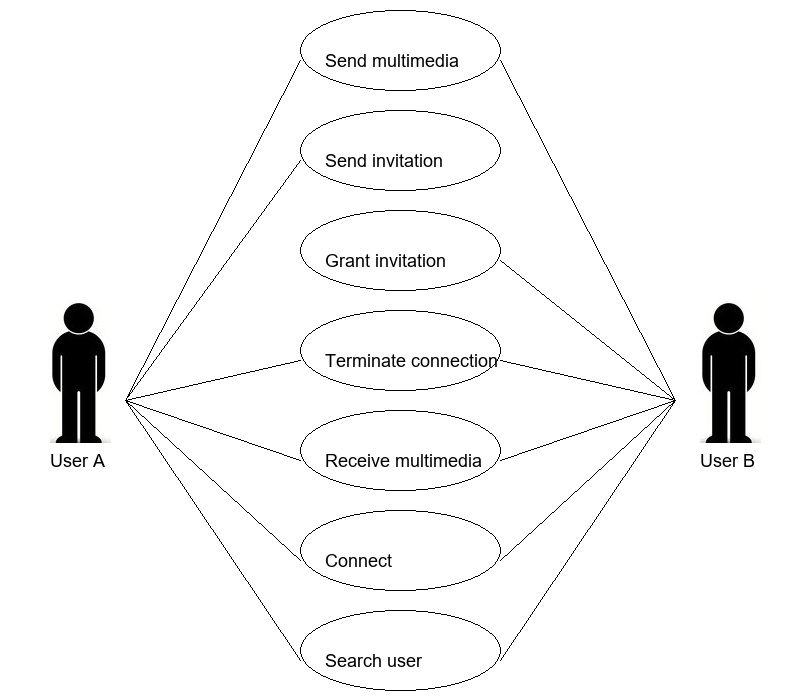
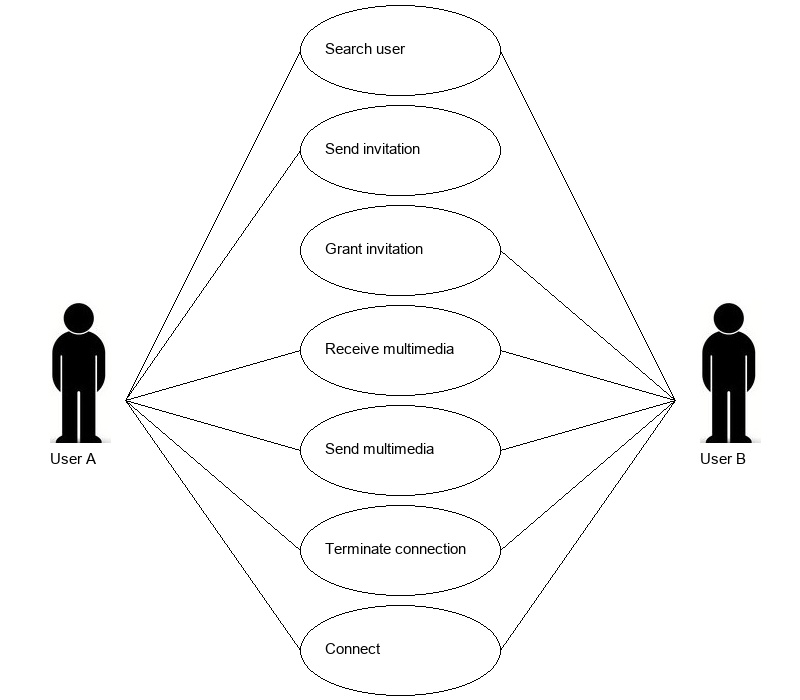
changes in UseCase

diff --git a/templates/index.html b/templates/index.html
@@ -117,7 +117,7 @@
             {% if show[5] == 1 %}
             <div class="block" id="diagram" >
                 <label class="main">UML Diagram</label><br><br>     
-                <img src="{{url_for('static', filename='pillow_imagedraw.jpg')}}" style="width:100%; height:700px;" > 
+                <img src="{{url_for('static', filename='pillow_imagedraw.jpg')}}" style="width:100%; height:900px;" > 
             </div>
             {% endif %}
             <br>
@@ -125,6 +125,6 @@
         </div>
     </div>
 </form>
-    
+  
 </body>
 </html>

diff --git a/UseCase.py b/UseCase.py
@@ -109,15 +109,17 @@ def knowledgeExtract(doc):
                 elif pos_text[c].pos_ == 'VERB':
                     break
                 c += 1
-            
             for i in actors:
                 if i.title() not in use_case:
-                    use_case[i.title()] = []
-                    
+                    use_case[i.title()] = set()
             if not actors and not flag:
                 actors = prev_actors
-                
-            if pos_text[c].pos_ != 'VERB' or (pos_text[c].pos_ == 'VERB' and pos_text[c].lemma_.lower() in ['include', 'involve', 'consist', 'contain']):
+            if flag:
+                prev_actors = actors
+            else:
+                prev_actors = prev_actors.union(actors)
+            flag = False
+            if c >= len(pos_text) or pos_text[c].lemma_.lower() in ['include', 'involve', 'consist', 'contain', 'be']:
                 c += 1
                 continue
             v = pos_text[c]
@@ -129,23 +131,19 @@ def knowledgeExtract(doc):
                 if pos_text[c].dep_ == 'dobj':
                     u += " " + pos_text[c].lemma_
                 c += 1
-            
             for i in actors:
-                use_case[i.title()].append(u)
-            
-            if flag:
-                prev_actors = actors
-            else:
-                prev_actors = prev_actors.union(actors)
-                
-            flag = False
-    
+                use_case[i.title()].add(u)
+    x = list(use_case.keys())
+    for i in x:
+        if not use_case[i]:
+            del use_case[i]
     return use_case
                 
 
 def createUML(doc):
+
     use_case = knowledgeExtract(doc)
-    fontsize = 18
+    fontsize = 15
     font = ImageFont.truetype("arial.ttf", fontsize)
     n = len(use_case.keys())
     cases = set()
@@ -167,17 +165,18 @@ def createUML(doc):
         draw.text((700-(50*(i%2)), div2*i+div2//2+100),actors[n-half+i],(0,0,0),font=font)
     x = 700//len(cases)
     for i in range(len(cases)): 
-        draw.ellipse((300, x*i+10, 500, x*(i+1)-10),fill=None, outline=(0, 0, 0))
-        draw.text((325, x*i+50),cases[i].capitalize(),(0,0,0),font=font)
+        draw.ellipse((300, x*i+5, 500, x*(i+1)-5),fill=None, outline=(0, 0, 0))
+        draw.text((325, x*(i+0.5)-10),cases[i].capitalize(),(0,0,0),font=font)
         for j in range(n-half):
             if cases[i] in use_case[actors[j]]:
-                shape = [(125+(50*(j%2)), div1*j+div1//2+50),(300,x*(i+0.5)+10)]
+                shape = [(125+(50*(j%2)), div1*j+div1//2+50),(300,x*(i+0.5))]
                 draw.line(shape, fill =(0,0,0), width = 1)
         for j in range(half):
             if cases[i] in use_case[actors[n-half+j]]:
-                shape = [(675-(50*(j%2)), div2*j+div2//2+50),(500,x*(i+0.5)+10)]
+                shape = [(675-(50*(j%2)), div2*j+div2//2+50),(500,x*(i+0.5))]
                 draw.line(shape, fill =(0,0,0), width = 1)
     im.save('static\pillow_imagedraw.jpg',quality=95)
+
 
 
 
